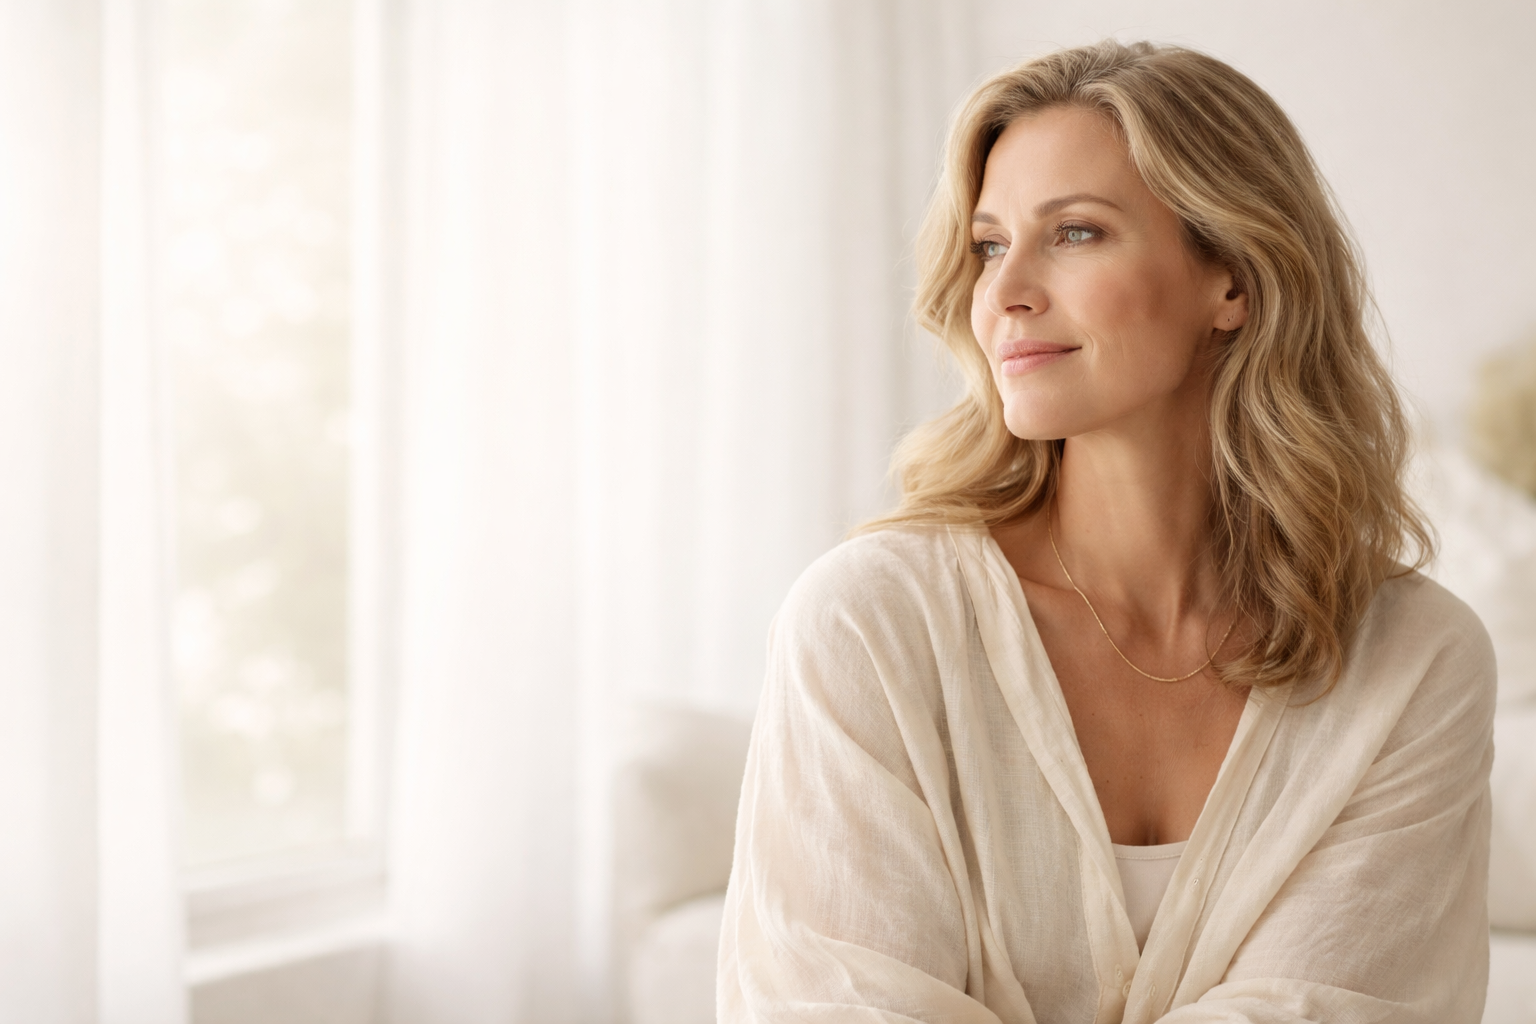
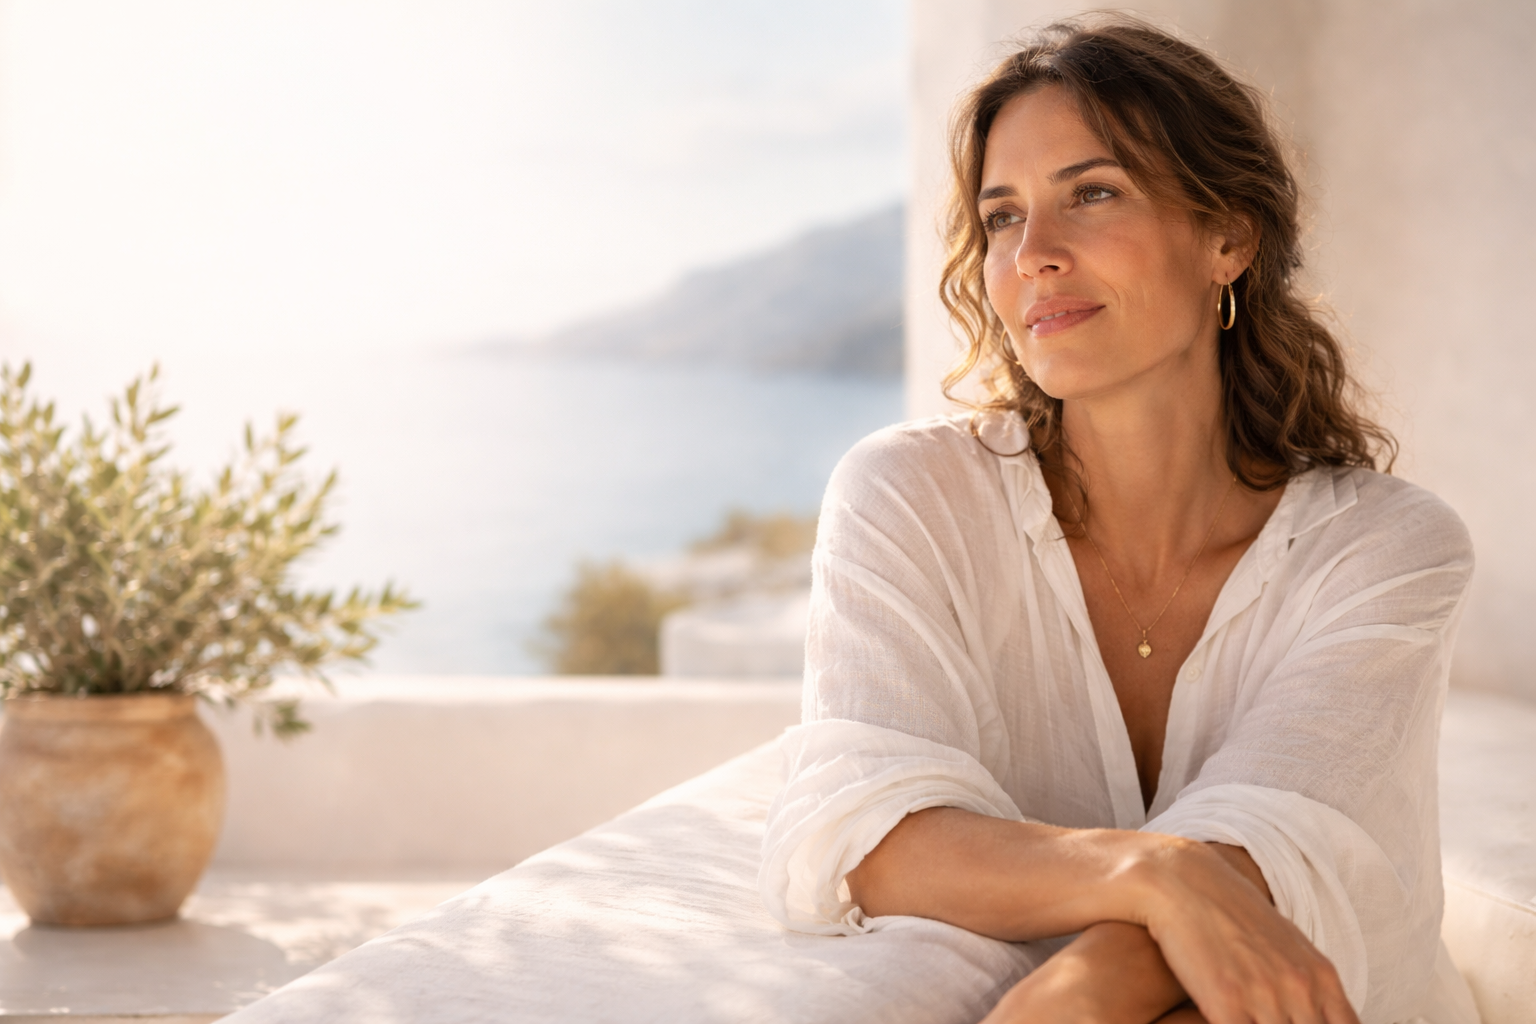
WIP: local manual changes

diff --git a/styles.css b/styles.css
@@ -26,14 +26,14 @@ body {
 }
 
 .hero {
-  min-height: 96vh;
+  min-height: 100vh;
   display: grid;
-  align-items: center;
-  padding: clamp(10px, 1.8vh, 24px) 0;
+  align-items: top;
+  padding: clamp(20px, 1.8vh, 24px) 0;
 }
 
 .hero .container {
-  min-height: min(86vh, 740px);
+  min-height: min(86vh, 600px);
   display: grid;
   align-items: center;
   border-radius: 28px;
@@ -41,7 +41,7 @@ body {
   background:
     linear-gradient(90deg, rgba(246, 240, 251, 0.97) 0%, rgba(246, 240, 251, 0.88) 36%, rgba(246, 240, 251, 0.22) 62%, rgba(246, 240, 251, 0.04) 100%),
     linear-gradient(180deg, rgba(26, 18, 39, 0.06) 0%, rgba(26, 18, 39, 0.18) 100%),
-    url("public/images/01-hero/hero-main-woman.png") 60% 10% / cover no-repeat;
+    url("public/images/01-hero/hero-main-woman.png") 60% 0% / cover no-repeat;
   box-shadow: 0 22px 48px rgba(53, 38, 74, 0.16);
 }
 
